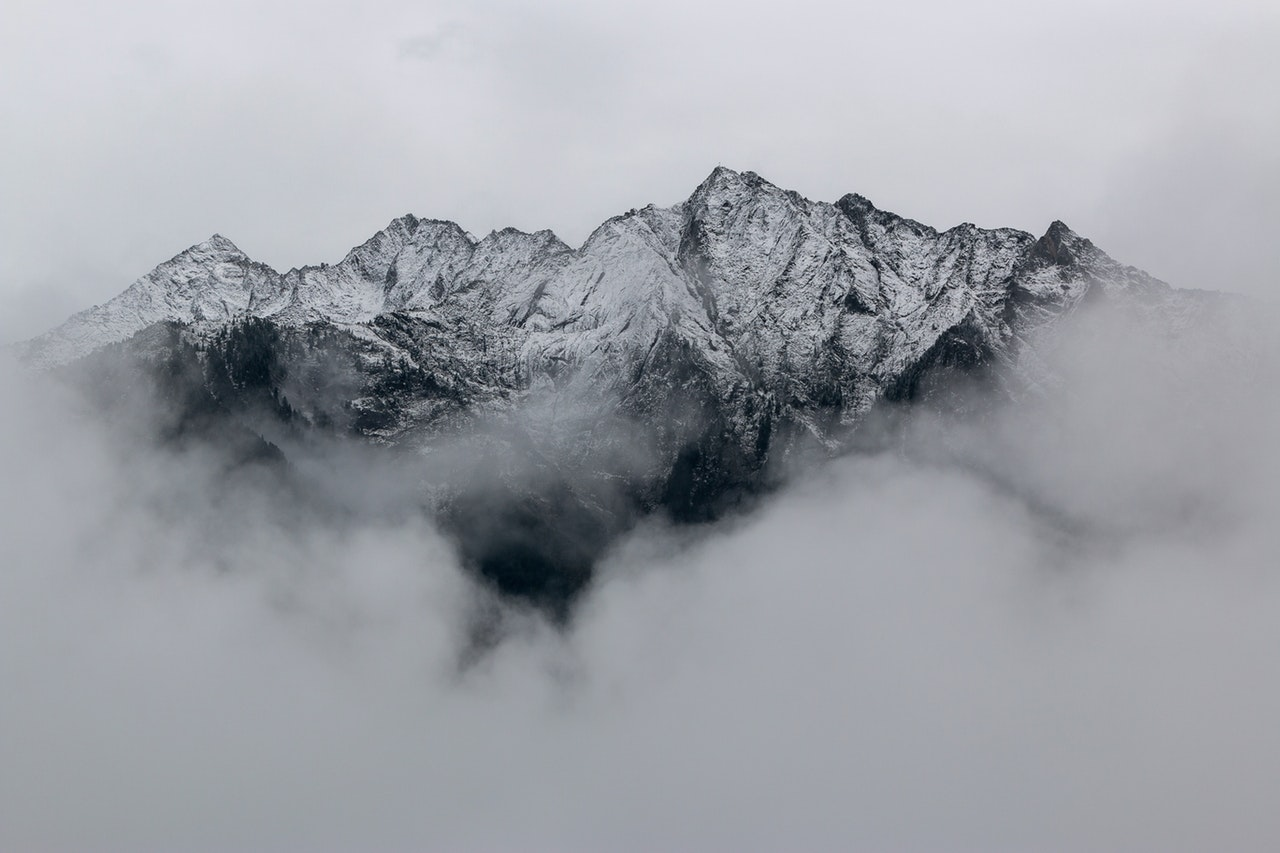
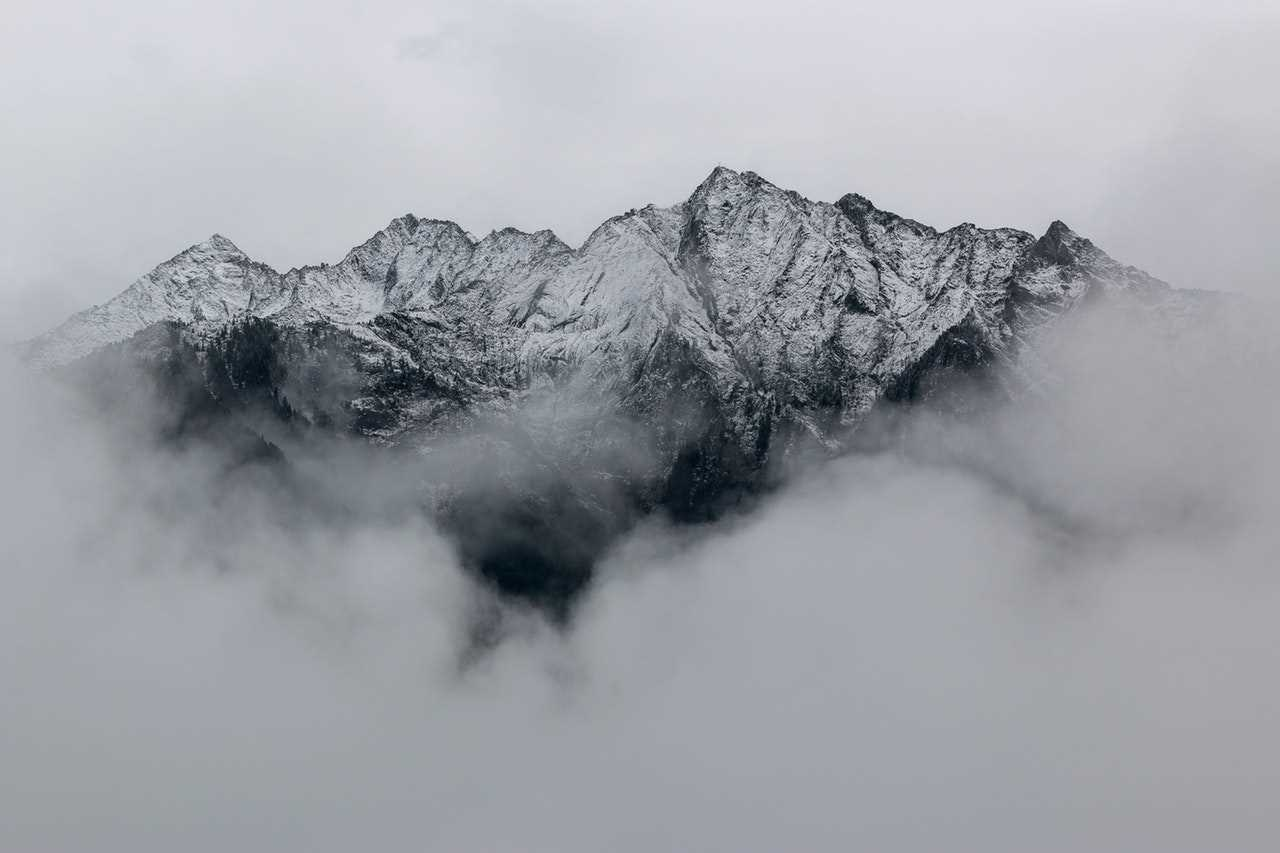
compress background image

diff --git a/src/components/NavBar/NavBar.css b/src/components/NavBar/NavBar.css
@@ -3,7 +3,7 @@
 }
 
 .navbar-background-image {
-    background: url('../../images/12.jpeg') center/cover no-repeat !important;
+    background: url('../../images/12.jpg') center/cover no-repeat !important;
 }
 
 .navbar-header {
